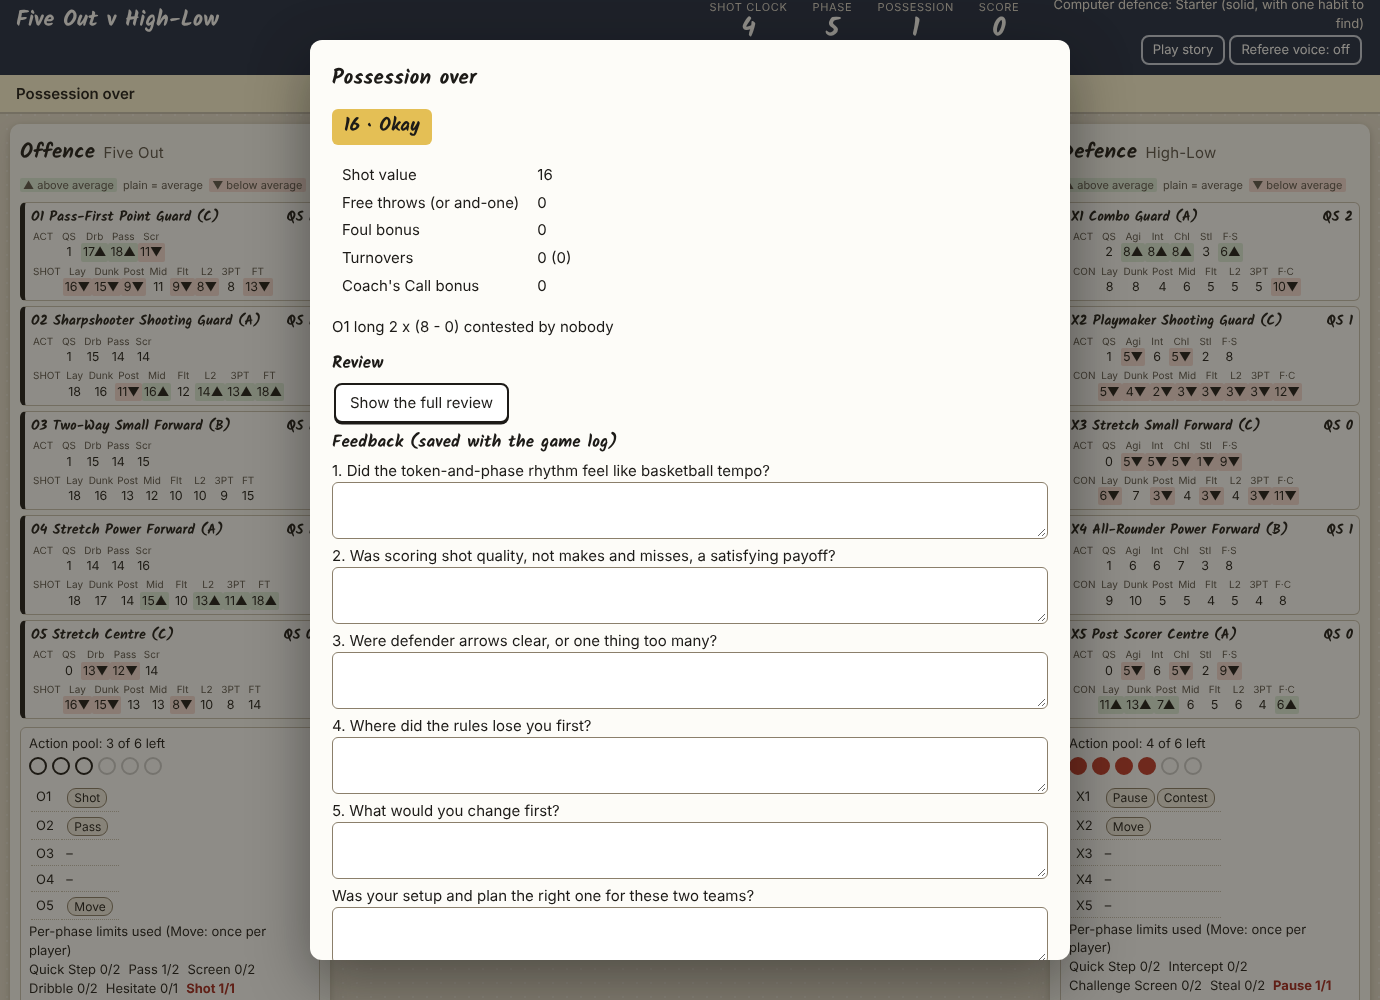
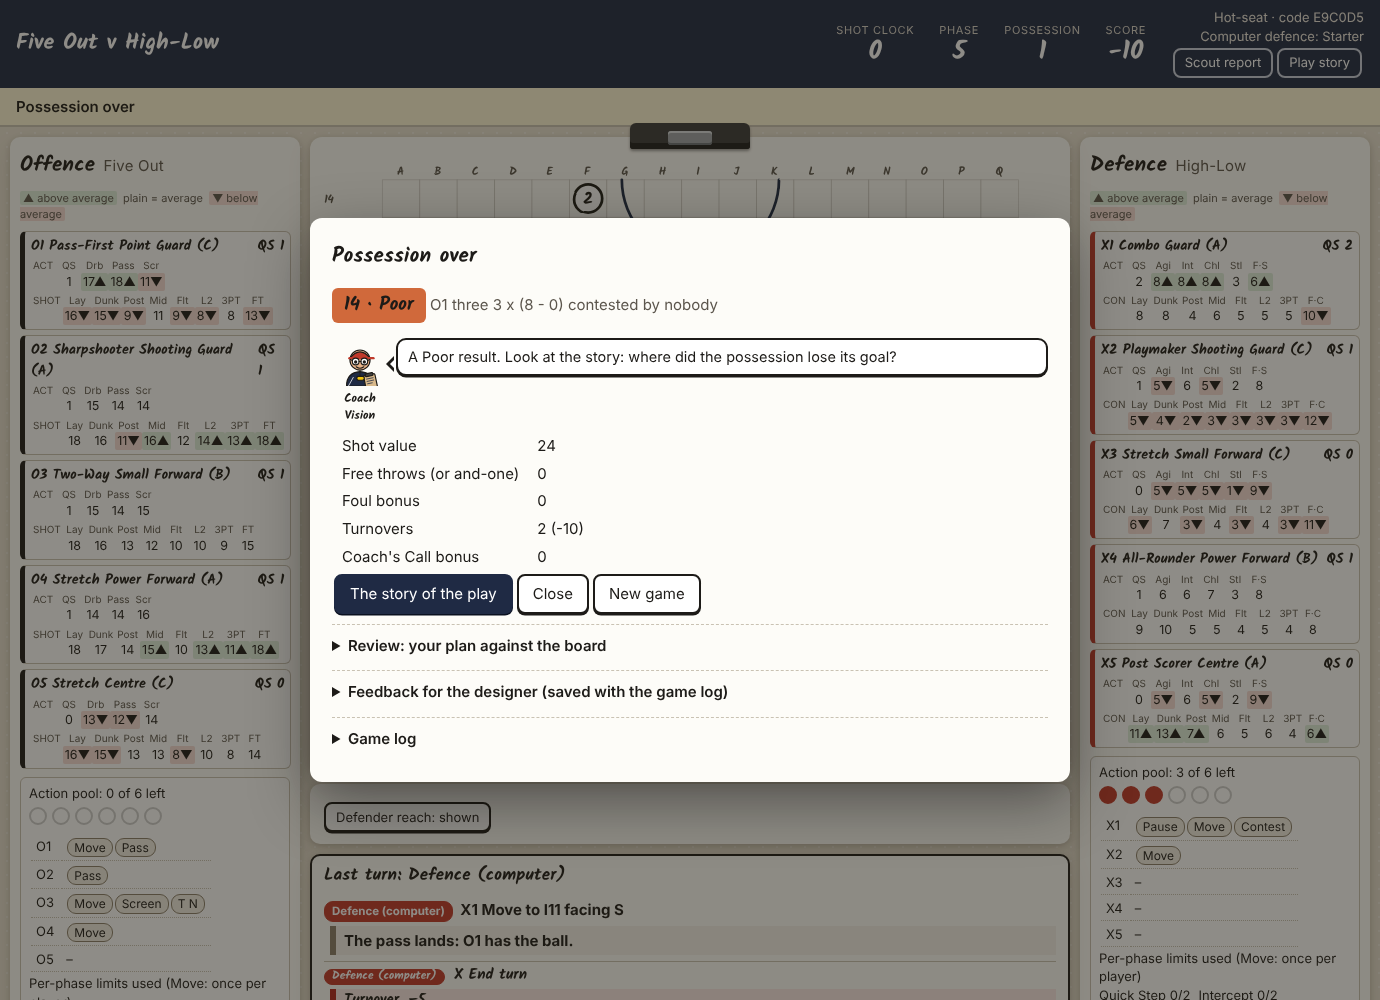
Turn tags keep clear of the pieces; the call reads in one line; a shorter meta line; README images refreshed
- A turn number never sits on a piece, on the live board or in a phase diagram: pieces carry a keep-out radius and a tag that would land on one moves to the nearest clear spot in two rings.
- The roll result shows the die and one line per roll, the roller on the chip and the result in bold.
- The top-right meta line names the computer level without the long description, so it stays on one line.
- The README's clipboard screenshots are retaken on the current layout.

Claude-Session: https://claude.ai/code/session_01FDQZLbkGFrzjRJM6FeKbhu

diff --git a/playmaker/playmaker_web/static/app.js b/playmaker/playmaker_web/static/app.js
@@ -246,7 +246,7 @@ function render() {
   $('poss').textContent = s.full ? `${s.possession} of 2` : '1';
   if (s.full) { const t = s.scores.map(x => `${x.attacker}: ${x.total}`).join(' · '); $('score').textContent = t || '0'; }
   else $('score').textContent = String(s.bonus - 5 * s.turnovers);
-  const LV = { rookie: 'Rookie (makes beginner mistakes you can learn to spot)', starter: 'Starter (solid, with one habit to find)', allstar: 'All-Star (plays the full read)', baseline: 'baseline' };
+  const LV = { rookie: 'Rookie', starter: 'Starter', allstar: 'All-Star', baseline: 'baseline' };
   const ai = Object.entries(s.ai || {}).map(([k, v]) => `${k === 'O' ? 'offence' : 'defence'}: ${LV[v] || v}`).join('; ');
   $('meta').innerHTML = '';
   $('meta').append(el('div', { text: `${s.mode === 'remote' ? 'Remote' : 'Hot-seat'} · code ${s.code}${s.seat && s.seat !== 'both' ? ' · you: ' + (s.seat === 'O' ? 'Offence' : 'Defence') : ''}` }),
@@ -359,7 +359,7 @@ function renderCourt() {
   }
   if (s.placing && s.placing.mine) { placementPieces(c); placementTargets(c); return; }
   drawGhost(c);
-  PM.marks(c, turnMarks(), { numbers: true });          // the turn in play, in notation (resets when the turn ends)
+  PM.marks(c, turnMarks(), { numbers: true, avoid: [...st.o, ...st.x].map(p => [px(p.x) + S / 2, py(p.y) + S / 2]) });          // the turn in play, in notation (resets when the turn ends)
   // a pass still in the air that no mark covers yet (the defence is answering it)
   if (s.pending && !turnMarks().some(m => m.kind === 'pass')) {
     const a = s.o[s.pending[0]], b = s.o[s.pending[1]];
@@ -651,7 +651,8 @@ function showRolls(rolls) {
     const box = [el('h2', { text: 'The call' }), PMCoach.line('ref', call, { compact: true, speak: false, live: false })];
     for (const r of rolls) {
       const ok = r.face <= r.need;
-      box.push(el('div', {}, [rollerChip(r.roller), el('span', { class: 'die roll' + (r.roller === 'X' ? ' black' : ''), text: r.face }), el('span', { text: `${r.text} → rolled ${r.face}: ${r.picked}` })]));
+      box.push(el('div', { class: 'rollrow' }, [rollerChip(r.roller), el('span', { class: 'die roll' + (r.roller === 'X' ? ' black' : ''), text: r.face }),
+        el('span', {}, [r.text.replace(/^(Offence|Defence) rolls: /, '') + ' ', el('strong', { text: `Rolled ${r.face}: ${r.picked}.` })])]));
     }
     box.push(el('button', { class: 'primary', text: 'Continue', onclick: () => { closeModal(); res(); } }));
     announce(rolls.map(r => `${r.text}. Rolled ${r.face}: ${r.picked}.`).join(' '));

diff --git a/playmaker/playmaker_web/static/notation.js b/playmaker/playmaker_web/static/notation.js
@@ -184,9 +184,12 @@ window.PMNotation = (function () {
   let placedTags = [];                // where tags have gone, so a new one that would land on another nudges aside
   function numberTag(g, x, y, n, ink) {
     const r = 7.5 * TAG, min = 2.1 * r;
-    const tries = [[0, 0], [0, -min], [0, min], [-min, 0], [min, 0], [-min, -min], [min, min], [min, -min], [-min, min]];
+    // first the spot asked for, then a ring of eight around it, then a wider ring: the first that sits clear of
+    // every other tag and of every piece (pieces carry their own keep-out radius) takes it
+    const tries = [[0, 0]];
+    for (const k of [1, 1.7]) for (const a of [-90, 90, 180, 0, -135, 45, -45, 135]) tries.push([Math.cos(a * Math.PI / 180) * min * k, Math.sin(a * Math.PI / 180) * min * k]);
     for (const [dx, dy] of tries) {
-      if (!placedTags.some(([px0, py0]) => Math.hypot(px0 - (x + dx), py0 - (y + dy)) < min)) { x += dx; y += dy; break; }
+      if (!placedTags.some(([px0, py0, keep]) => Math.hypot(px0 - (x + dx), py0 - (y + dy)) < (keep || min))) { x += dx; y += dy; break; }
     }
     placedTags.push([x, y]);
     const grp = svg('g', { class: 'turnno' });
@@ -209,7 +212,7 @@ window.PMNotation = (function () {
   function marks(root, list, opts) {
     opts = opts || {};
     TAG = opts.tag || 1;
-    placedTags = [];
+    placedTags = (opts.avoid || []).map(([x, y]) => [x, y, 14 + 7.5 * TAG + 1]);   // the pieces: a tag never sits on one
     const g = svg('g', { class: 'marks', 'aria-hidden': 'true' });
     const passLines = {};             // receiver square -> the pass line's end, so an intercept can slash it
     for (const m of list) {
@@ -327,7 +330,8 @@ window.PMNotation = (function () {
     start.o.forEach((p, i) => { const [x, y] = sqXY(p.sq); const g = svg('g', { class: 'piece' }); pieceO(g, x, y, i + 1, { ball: p.ball, screen: p.screen ? p.screen.dir : null }); pg.append(g); });
     start.x.forEach((p, i) => { const [x, y] = sqXY(p.sq); const g = svg('g', { class: 'piece' }); pieceX(g, x, y, i + 1, arrowsMode ? [p.arrow, (p.arrow + 1) % 8] : [p.arrow]); pg.append(g); });
     root.append(pg);
-    marks(root, marksList, { numbers: true, tag: 1.25 });
+    const avoid = [...start.o, ...start.x].map(p => { const [x, y] = sqXY(p.sq); return [cx(x), cy(y)]; });
+    marks(root, marksList, { numbers: true, tag: 1.25, avoid });
     if (opts.title) {
       root.setAttribute('viewBox', `0 -34 ${W} ${H + 34}`);
       root.append(svg('text', { class: 'dtitle', x: PADX, y: -12 }, opts.title));

diff --git a/playmaker/playmaker_web/static/style.css b/playmaker/playmaker_web/static/style.css
@@ -47,7 +47,7 @@ textarea { width: 100%; min-height: 48px; font: inherit; border: 1.5px solid #8b
 .topbar .title { font-family: var(--marker); font-weight: bold; font-size: 22px; flex: 1; margin: 0; }
 .clock { display: flex; flex-direction: column; align-items: center; min-width: 54px; }
 .clock .lbl { font-size: 11px; text-transform: uppercase; letter-spacing: .06em; color: #d9d4cb; } .big { font-family: var(--marker); font-size: 26px; font-weight: bold; line-height: 1; }
-.meta { font-size: 13px; text-align: right; color: #ece7de; max-width: 320px; }
+.meta { font-size: 13px; text-align: right; color: #ece7de; max-width: 420px; }
 .meta button { color: #fff; background: transparent; border-color: #c8cfdd; box-shadow: none; }
 .meta button:hover { background: rgba(255,255,255,.12); }
 .summary { padding: 8px 16px; background: #fff7d6; border-bottom: 2px solid var(--line); font-weight: 600; font-size: 15px; }
@@ -121,6 +121,7 @@ textarea { width: 100%; min-height: 48px; font: inherit; border: 1.5px solid #8b
 .die { display: inline-flex; width: 54px; height: 54px; border: 3px solid var(--ink); border-radius: 10px; align-items: center; justify-content: center; font-size: 26px; font-weight: bold; margin: 6px; font-family: var(--marker); background: #fff; }
 .die.roll { animation: spin .6s ease-out; } @keyframes spin { from { transform: rotate(-360deg) scale(.4); } to { transform: none; } }
 .die.black { background: var(--red); color: #fff; border-color: var(--red); }
+.rollrow { display: flex; align-items: center; gap: 10px; flex-wrap: wrap; margin: 8px 0; }
 .die.small { width: 32px; height: 32px; font-size: 17px; border-width: 2px; border-radius: 6px; margin: 0 4px; vertical-align: middle; }
 .band { display: inline-block; padding: 4px 12px; border-radius: 6px; font-weight: bold; color: var(--ink); font-family: var(--marker); font-size: 19px; }
 .band.Poor { background: var(--poor); } .band.Okay { background: var(--okay); } .band.Good { background: var(--good); }
